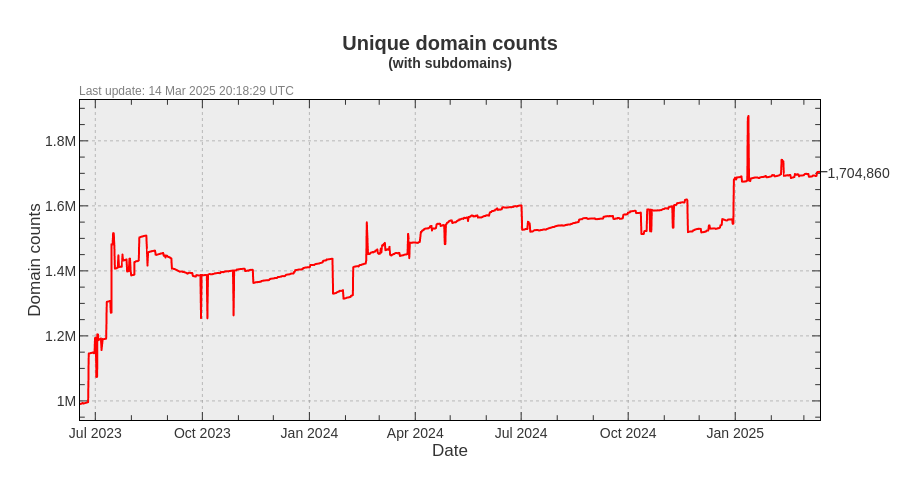
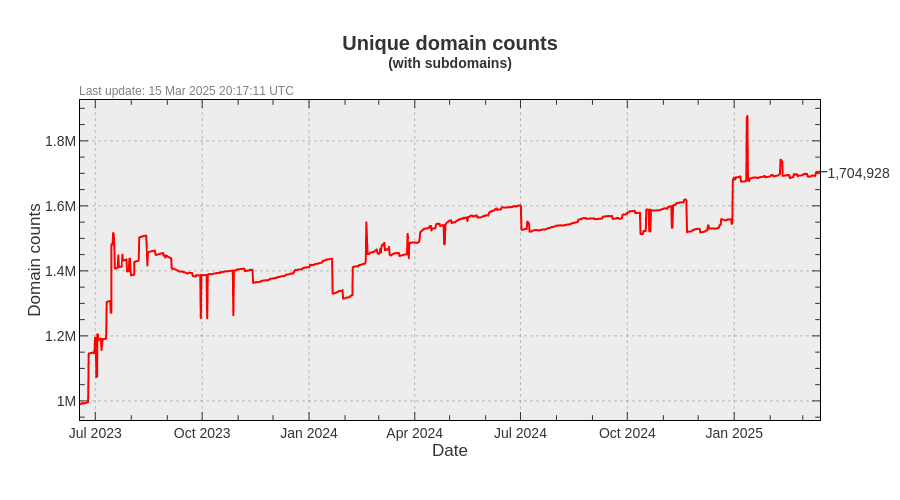
Update pages

diff --git a/README.md b/README.md
@@ -3,22 +3,22 @@ A blacklist file for blocking ads, trackers and malware domains.
 
[1 lines of base64/hex data omitted]
 
-- Unique domains: 1,704,860
-- Without subdomains: 1,083,904
-- Last update: 14 Mar 2025 20:18:29 UTC
-- Version: 2025.03.14.02
+- Unique domains: 1,704,928
+- Without subdomains: 1,084,064
+- Last update: 15 Mar 2025 20:17:11 UTC
+- Version: 2025.03.15.01
 
 
 ### Downloads:
 
 | Format             | Domain count      | Download Link |
 |:------------------ | -----------------:|:-------------:|
-| *Adblock Plus*     | 1,083,904 | [Download](https://dl.cenk.app/bad-hosts/bad-hosts-abp) |
-| *Wildcard domains* | 1,083,904 | [Download](https://dl.cenk.app/bad-hosts/bad-hosts-wildcard) |
-| *dnsmasq*          | 1,083,904 | [Download](https://dl.cenk.app/bad-hosts/bad-hosts-dnsmasq) |
-| *Unbound*          | 1,083,904 | [Download](https://dl.cenk.app/bad-hosts/bad-hosts-unbound) |
-| *hosts*            | 1,704,860 | [Download](https://dl.cenk.app/bad-hosts/hosts) |
-| *hosts (ipv6)*     | 1,704,860 | [Download](https://dl.cenk.app/bad-hosts/hosts-ipv6) |
-| *Plain domains*    | 1,704,860 | [Download](https://dl.cenk.app/bad-hosts/bad-hosts-domains) |
+| *Adblock Plus*     | 1,084,064 | [Download](https://dl.cenk.app/bad-hosts/bad-hosts-abp) |
+| *Wildcard domains* | 1,084,064 | [Download](https://dl.cenk.app/bad-hosts/bad-hosts-wildcard) |
+| *dnsmasq*          | 1,084,064 | [Download](https://dl.cenk.app/bad-hosts/bad-hosts-dnsmasq) |
+| *Unbound*          | 1,084,064 | [Download](https://dl.cenk.app/bad-hosts/bad-hosts-unbound) |
+| *hosts*            | 1,704,928 | [Download](https://dl.cenk.app/bad-hosts/hosts) |
+| *hosts (ipv6)*     | 1,704,928 | [Download](https://dl.cenk.app/bad-hosts/hosts-ipv6) |
+| *Plain domains*    | 1,704,928 | [Download](https://dl.cenk.app/bad-hosts/bad-hosts-domains) |
 
 
